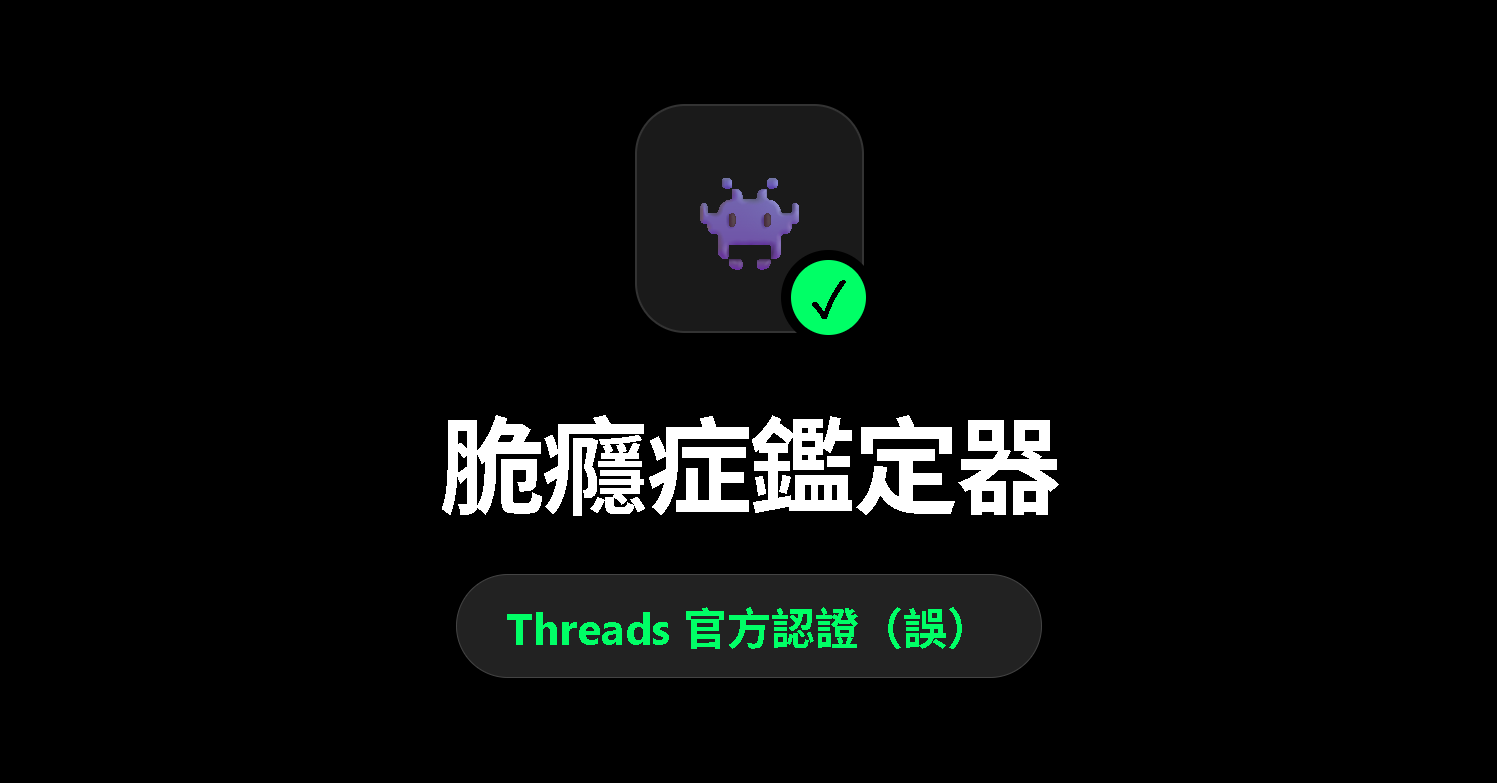
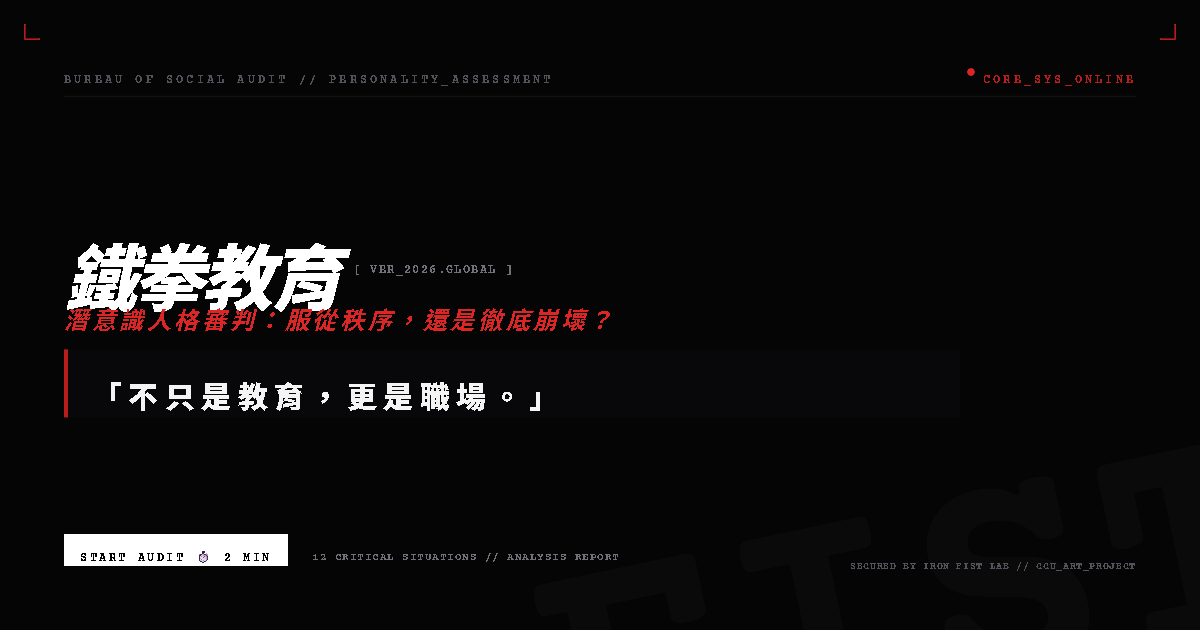
Add files via upload

diff --git a/index.html b/index.html
@@ -3,6 +3,28 @@
 <head>
     <meta charset="UTF-8">
     <meta name="viewport" content="width=device-width, initial-scale=1.0">
+    
+    <!-- ==========================================================================
+         START: Open Graph / 社群連結縮圖優化 (已同步更新為 social-preview.png)
+         ========================================================================== -->
+    <!-- 通用 Meta 標籤 -->
+    <meta name="description" content="不只是教育，更是職場！解構你隱藏在社會化面具下的心理本質，體制壓力下你選擇妥協還是反抗？">
+    
+    <!-- Open Graph / Threads / FB / LINE -->
+    <meta property="og:type" content="website">
+    <meta property="og:title" content="鐵拳教育 | 潛意識人格審判測驗">
+    <meta property="og:description" content="不只是教育，更是職場！解構你隱藏在社會化面具下的心理本質，體制壓力下你選擇妥協還是反抗？">
+    <meta property="og:image" content="social-preview.png">
+    
+    <!-- Twitter / X 最佳化 -->
+    <meta name="twitter:card" content="summary_large_image">
+    <meta name="twitter:title" content="鐵拳教育 | 潛意識人格審判測驗">
+    <meta name="twitter:description" content="不只是教育，更是職場！12道決策情境解構你的體制生存率。">
+    <meta name="twitter:image" content="social-preview.png">
+    <!-- ==========================================================================
+         END: Open Graph 優化
+         ========================================================================== -->
+
     <script async src="https://pagead2.googlesyndication.com/pagead/js/adsbygoogle.js?client=ca-pub-9874958587973886" crossorigin="anonymous"></script>
     <title>鐵拳教育 | 潛意識人格審判</title>
     <script src="https://cdn.tailwindcss.com"></script>
@@ -369,7 +391,7 @@
                     tag: "擬態生物 // Mimicry",
                     danger: "LEVEL: LOW (低危)",
                     dangerClass: "bg-green-950 text-green-400 border border-green-700",
-                    link: "切勿單獨面對「韓秀賢」，你無法承受極端的瘋狂。",
+                    link: "切勿單逐面對「韓秀賢」，你無法承受極端的瘋狂。",
                     threadsShare: "18.1%",
                     chartData: [30, 45, 95, 50, 30]
                 },